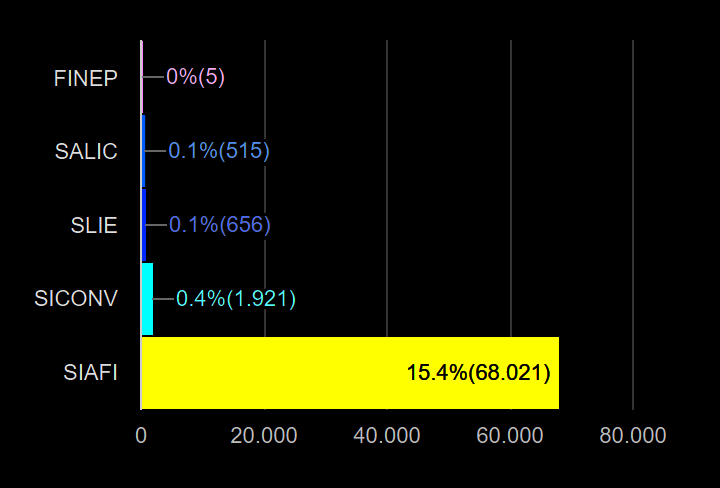
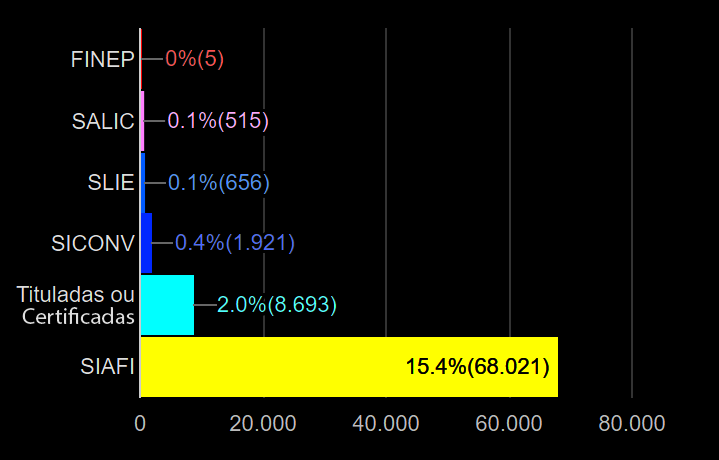
Issue: MOSC-633 Subject: Atualizar os indicadores e os gráficos Detail: Atualização das imagens da página de indicadores

Changed region(s): [[0.0306, 0.0609, 0.7955, 0.9435], [0.8261, 0.8522, 0.9485, 0.9435]]

diff --git a/src/main/java/gov/sgpr/fgv/osc/portalosc/map/client/controller/InfographicsController.java b/src/main/java/gov/sgpr/fgv/osc/portalosc/map/client/controller/InfographicsController.java
@@ -50,7 +50,7 @@ public class InfographicsController {
 		graph1.setSvgImageContrast("infograficos/numeros/contraste/infografico_1.png");
 		graph1.setWidth(400);
 		graph1.setHeight(300);
-		graph1.setLegend("Fonte: RAIS/MTE, 2013");
+		graph1.setLegend("Fonte: MTE (2013).");
 
 		Graph graph2 = new Graph();
 		graph2.setTitle("Número e % de vínculos ativos das OSCs, por faixas de vínculos (2013)");
@@ -58,15 +58,15 @@ public class InfographicsController {
 		graph2.setSvgImageContrast("infograficos/numeros/contraste/infografico_2.png");
 		graph2.setWidth(400);
 		graph2.setHeight(300);
-		graph2.setLegend("Fonte: RAIS/MTE, 2013");
+		graph2.setLegend("Fonte: MTE (2013).");
 
 		Graph graph3 = new Graph();
-		graph3.setTitle("Número de OSCs que mantiveram relação com a administração federal, por fonte (2009-2015)");
+		graph3.setTitle("Número de OSCs que mantiveram relação com a administração federal, por fonte (2009-2016)");
 		graph3.setSvgImage("infograficos/numeros/infografico_3.png");
 		graph3.setSvgImageContrast("infograficos/numeros/contraste/infografico_3.png");
 		graph3.setWidth(400);
 		graph3.setHeight(300);
-		graph3.setLegend("Fontes: Min. Justiça, Tesouro Nacional, Finep, Min. Cultura");
+		graph3.setLegend("Fonte: MCTI (2016), MinC (2016), ME (2016), MPOG (2016), STN (2016), MJC (2016), MEC (2013), MDS (2015) e MS (2015).");
 
 		Graph graph4 = new Graph();
 		graph4.setTitle("Percentual e número de instituições por <strong>Natureza Jurídica</strong> (2013)");
@@ -74,7 +74,7 @@ public class InfographicsController {
 		graph4.setSvgImageContrast("infograficos/numeros/contraste/infografico_4.png");
 		graph4.setWidth(470);
 		graph4.setHeight(300);
-		graph4.setLegend("Fonte: RAIS/MTE, 2013");
+		graph4.setLegend("Fonte: MTE (2013).");
 
 		Graph graph5 = new Graph();
 		graph5.setTitle("% de OSCs que possuem Títulos ou certificações federais (2009-2015)");
@@ -82,16 +82,15 @@ public class InfographicsController {
 		graph5.setSvgImageContrast("infograficos/numeros/contraste/infografico_5.png");
 		graph5.setWidth(400);
 		graph5.setHeight(300);
-		graph5.setLegend("Fonte: Ministério da Justiça (2015), Ministério da Educação (2014), Ministério do Desenvolvimento Social (2016) e Ministério da Saúde (2016).");
+		graph5.setLegend("Fonte: MJC (2016), MEC (2013), MDS (2015) e MS (2015).");
 
 		Graph graph6 = new Graph();
-		graph6.setTitle("Valor dos recursos públicos destinados às OSCs, por base de origem(2009-2015)");
+		graph6.setTitle("Valor dos recursos públicos destinados às OSCs, por base de origem(2009-2016)");
 		graph6.setSvgImage("infograficos/numeros/infografico_6.png");
 		graph6.setSvgImageContrast("infograficos/numeros/contraste/infografico_6.png");
 		graph6.setWidth(400);
 		graph6.setHeight(300);
-		graph6.setLegend("Nota: trata-se de valores nominais, não corrigidos pela inflação.");
-		//graph3.setLegend("Fonte: SICONV (2009 a 2016), SIAFI (2016)");
+		graph6.setLegend("Nota: trata-se de valores nominais, não corrigidos pela inflação.<br>Fonte: MCTI (2016), MinC (2016), ME (2016), MPOG (2016), STN (2016).");
 
 		Infographics info = new Infographics(3, 2);
 		info.setTitle("OSCs em números");
@@ -171,16 +170,16 @@ public class InfographicsController {
 		graph1.setSvgImage("infograficos/natureza_juridica/infografico_1.png");
 		graph1.setSvgImageContrast("infograficos/natureza_juridica/contraste/infografico_1.png");
 		graph1.setWidth(600);
-		graph1.setHeight(410);
-		graph1.setLegend("Fonte: RAIS/MTE, 2013");
+		graph1.setHeight(368);
+		graph1.setLegend("Fonte: MTE (2013).");
 
 		Graph graph2 = new Graph();
 		graph2.setTitle("<ul id=\"info03_2\" class=\"clearfix\"><li>% e número de vínculos de trabalho das OSCs, por natureza jurídica</li></ul>");
 		graph2.setSvgImage("infograficos/natureza_juridica/infografico_2.png");
 		graph2.setSvgImageContrast("infograficos/natureza_juridica/contraste/infografico_2.png");
-		graph2.setWidth(600);
-		graph2.setHeight(410);
-		graph2.setLegend("Fonte: RAIS/MTE, 2013");
+		graph2.setWidth(550);
+		graph2.setHeight(457);
+		graph2.setLegend("Fonte: MTE (2013).");
 
 		Infographics info = new Infographics(2, 1);
 		info.setTitle("OSCs natureza jurídica / faixa de vínculos");
